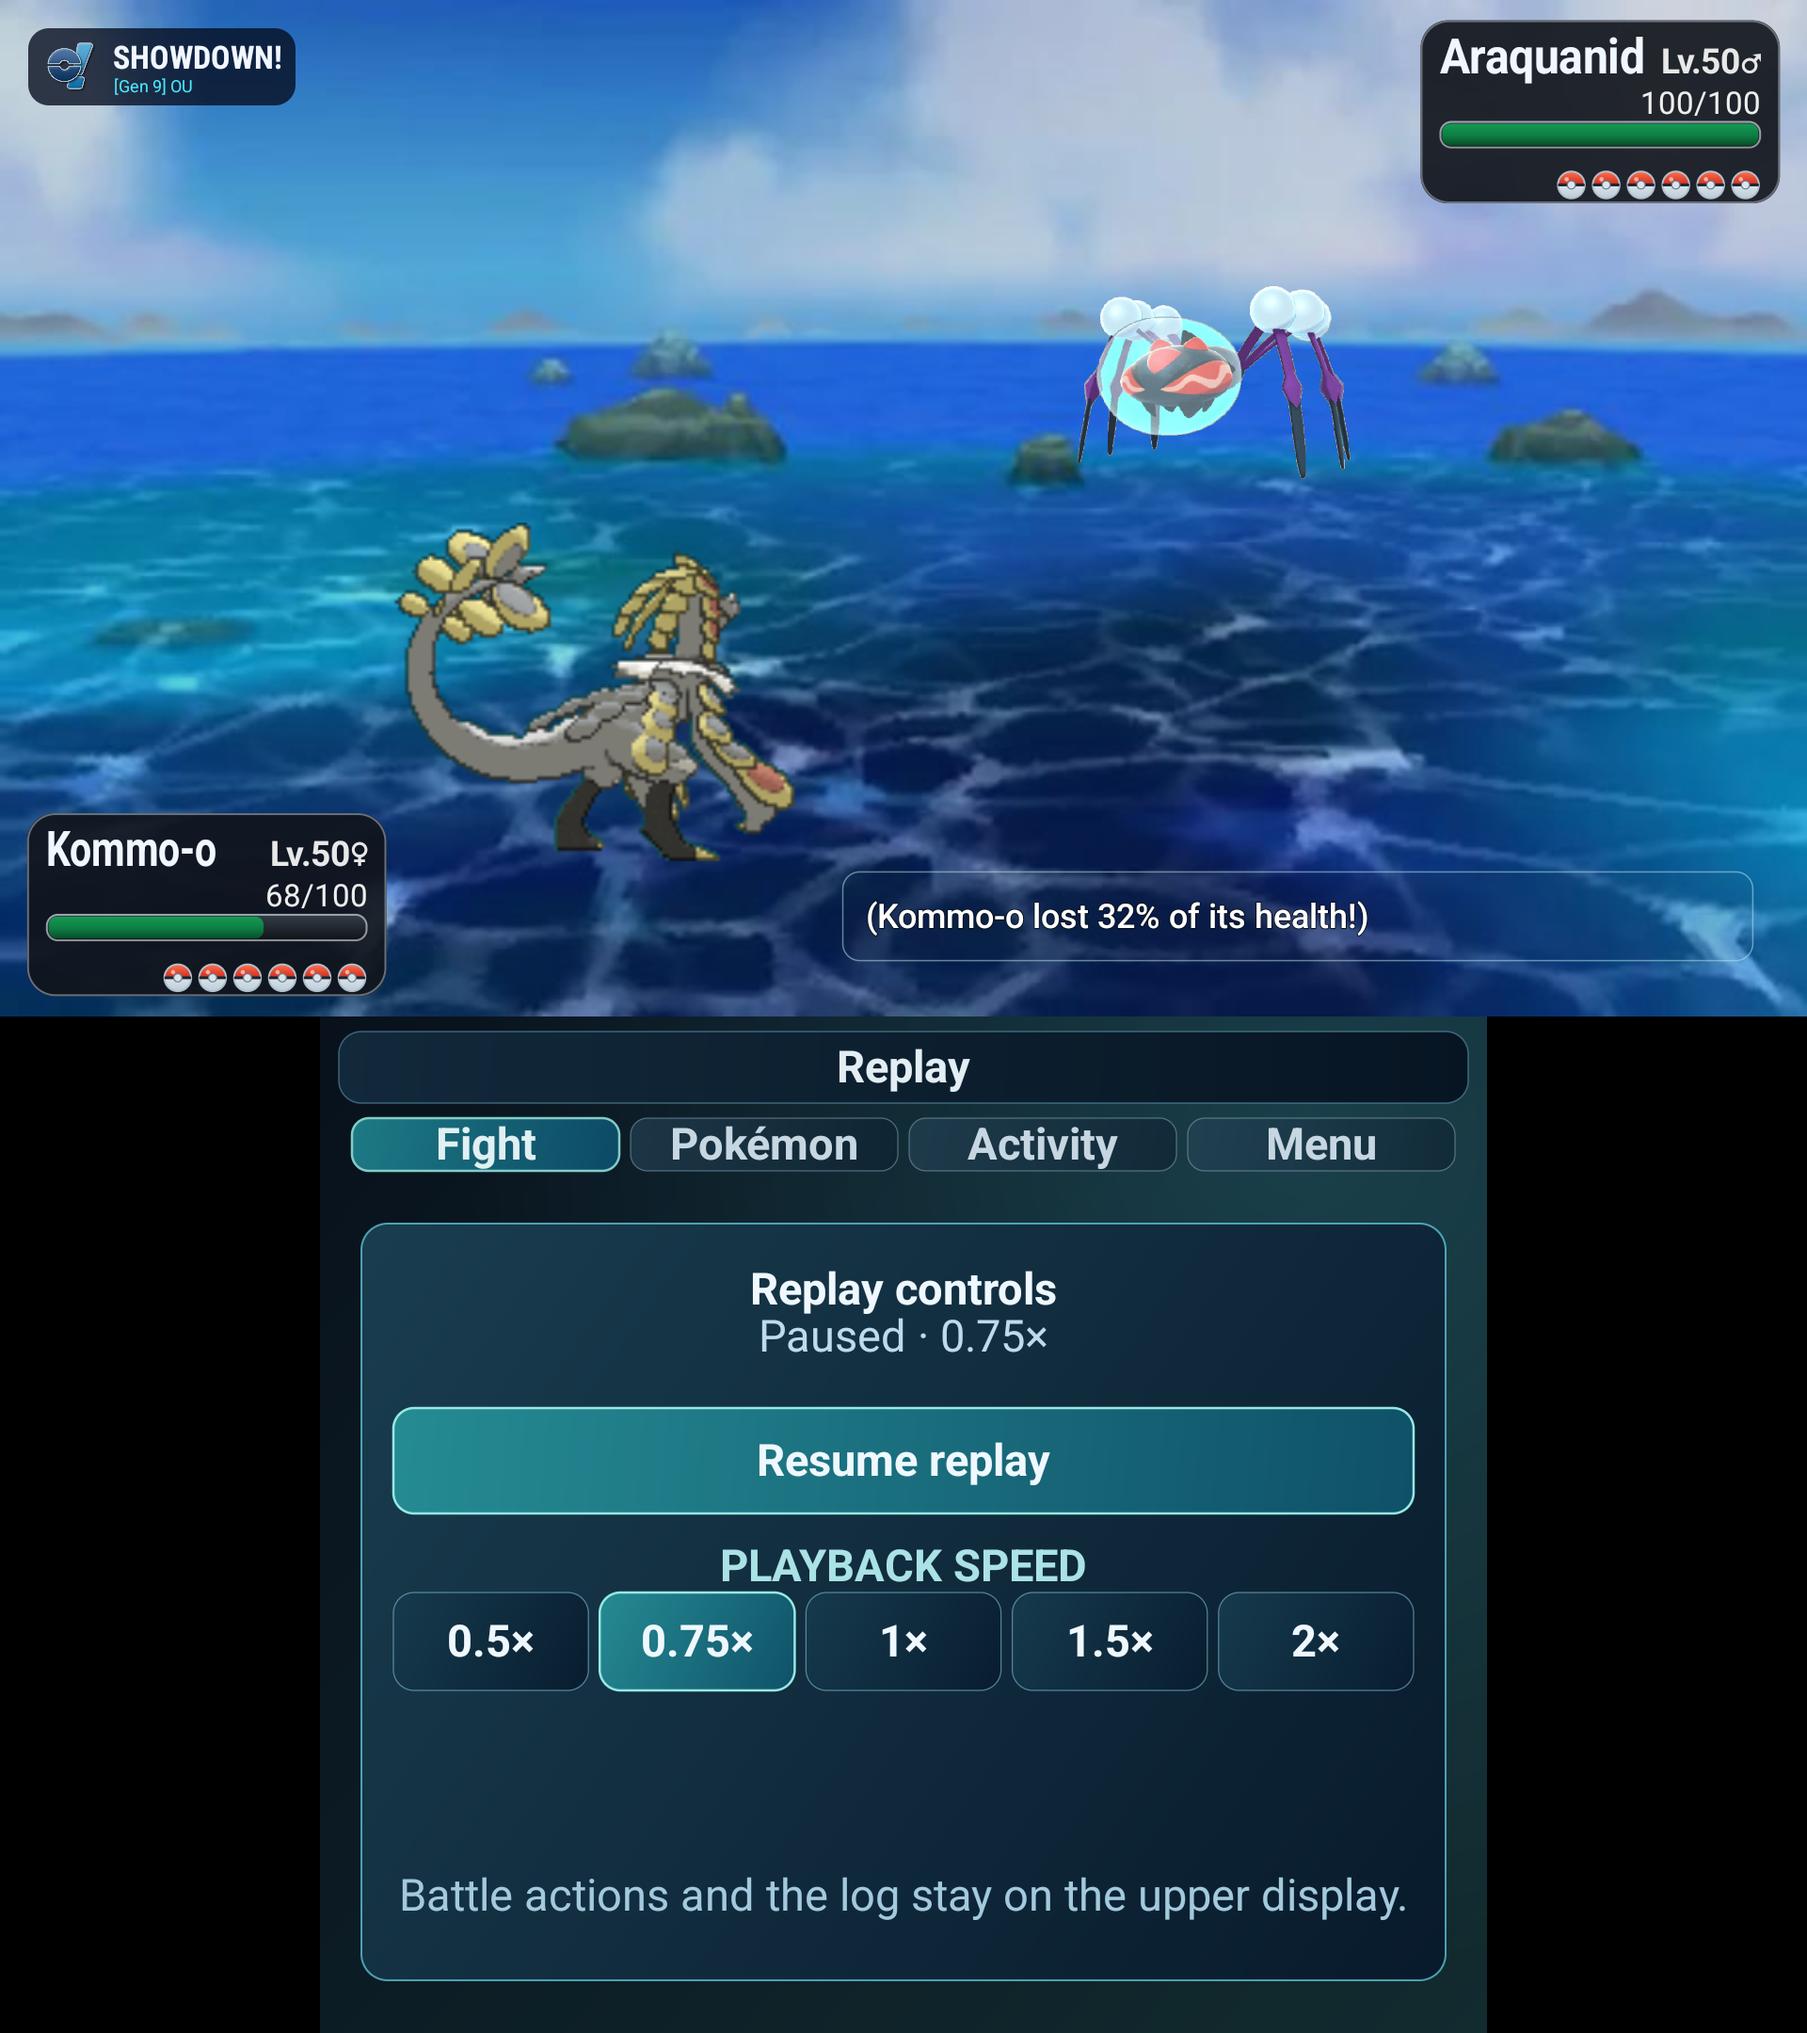
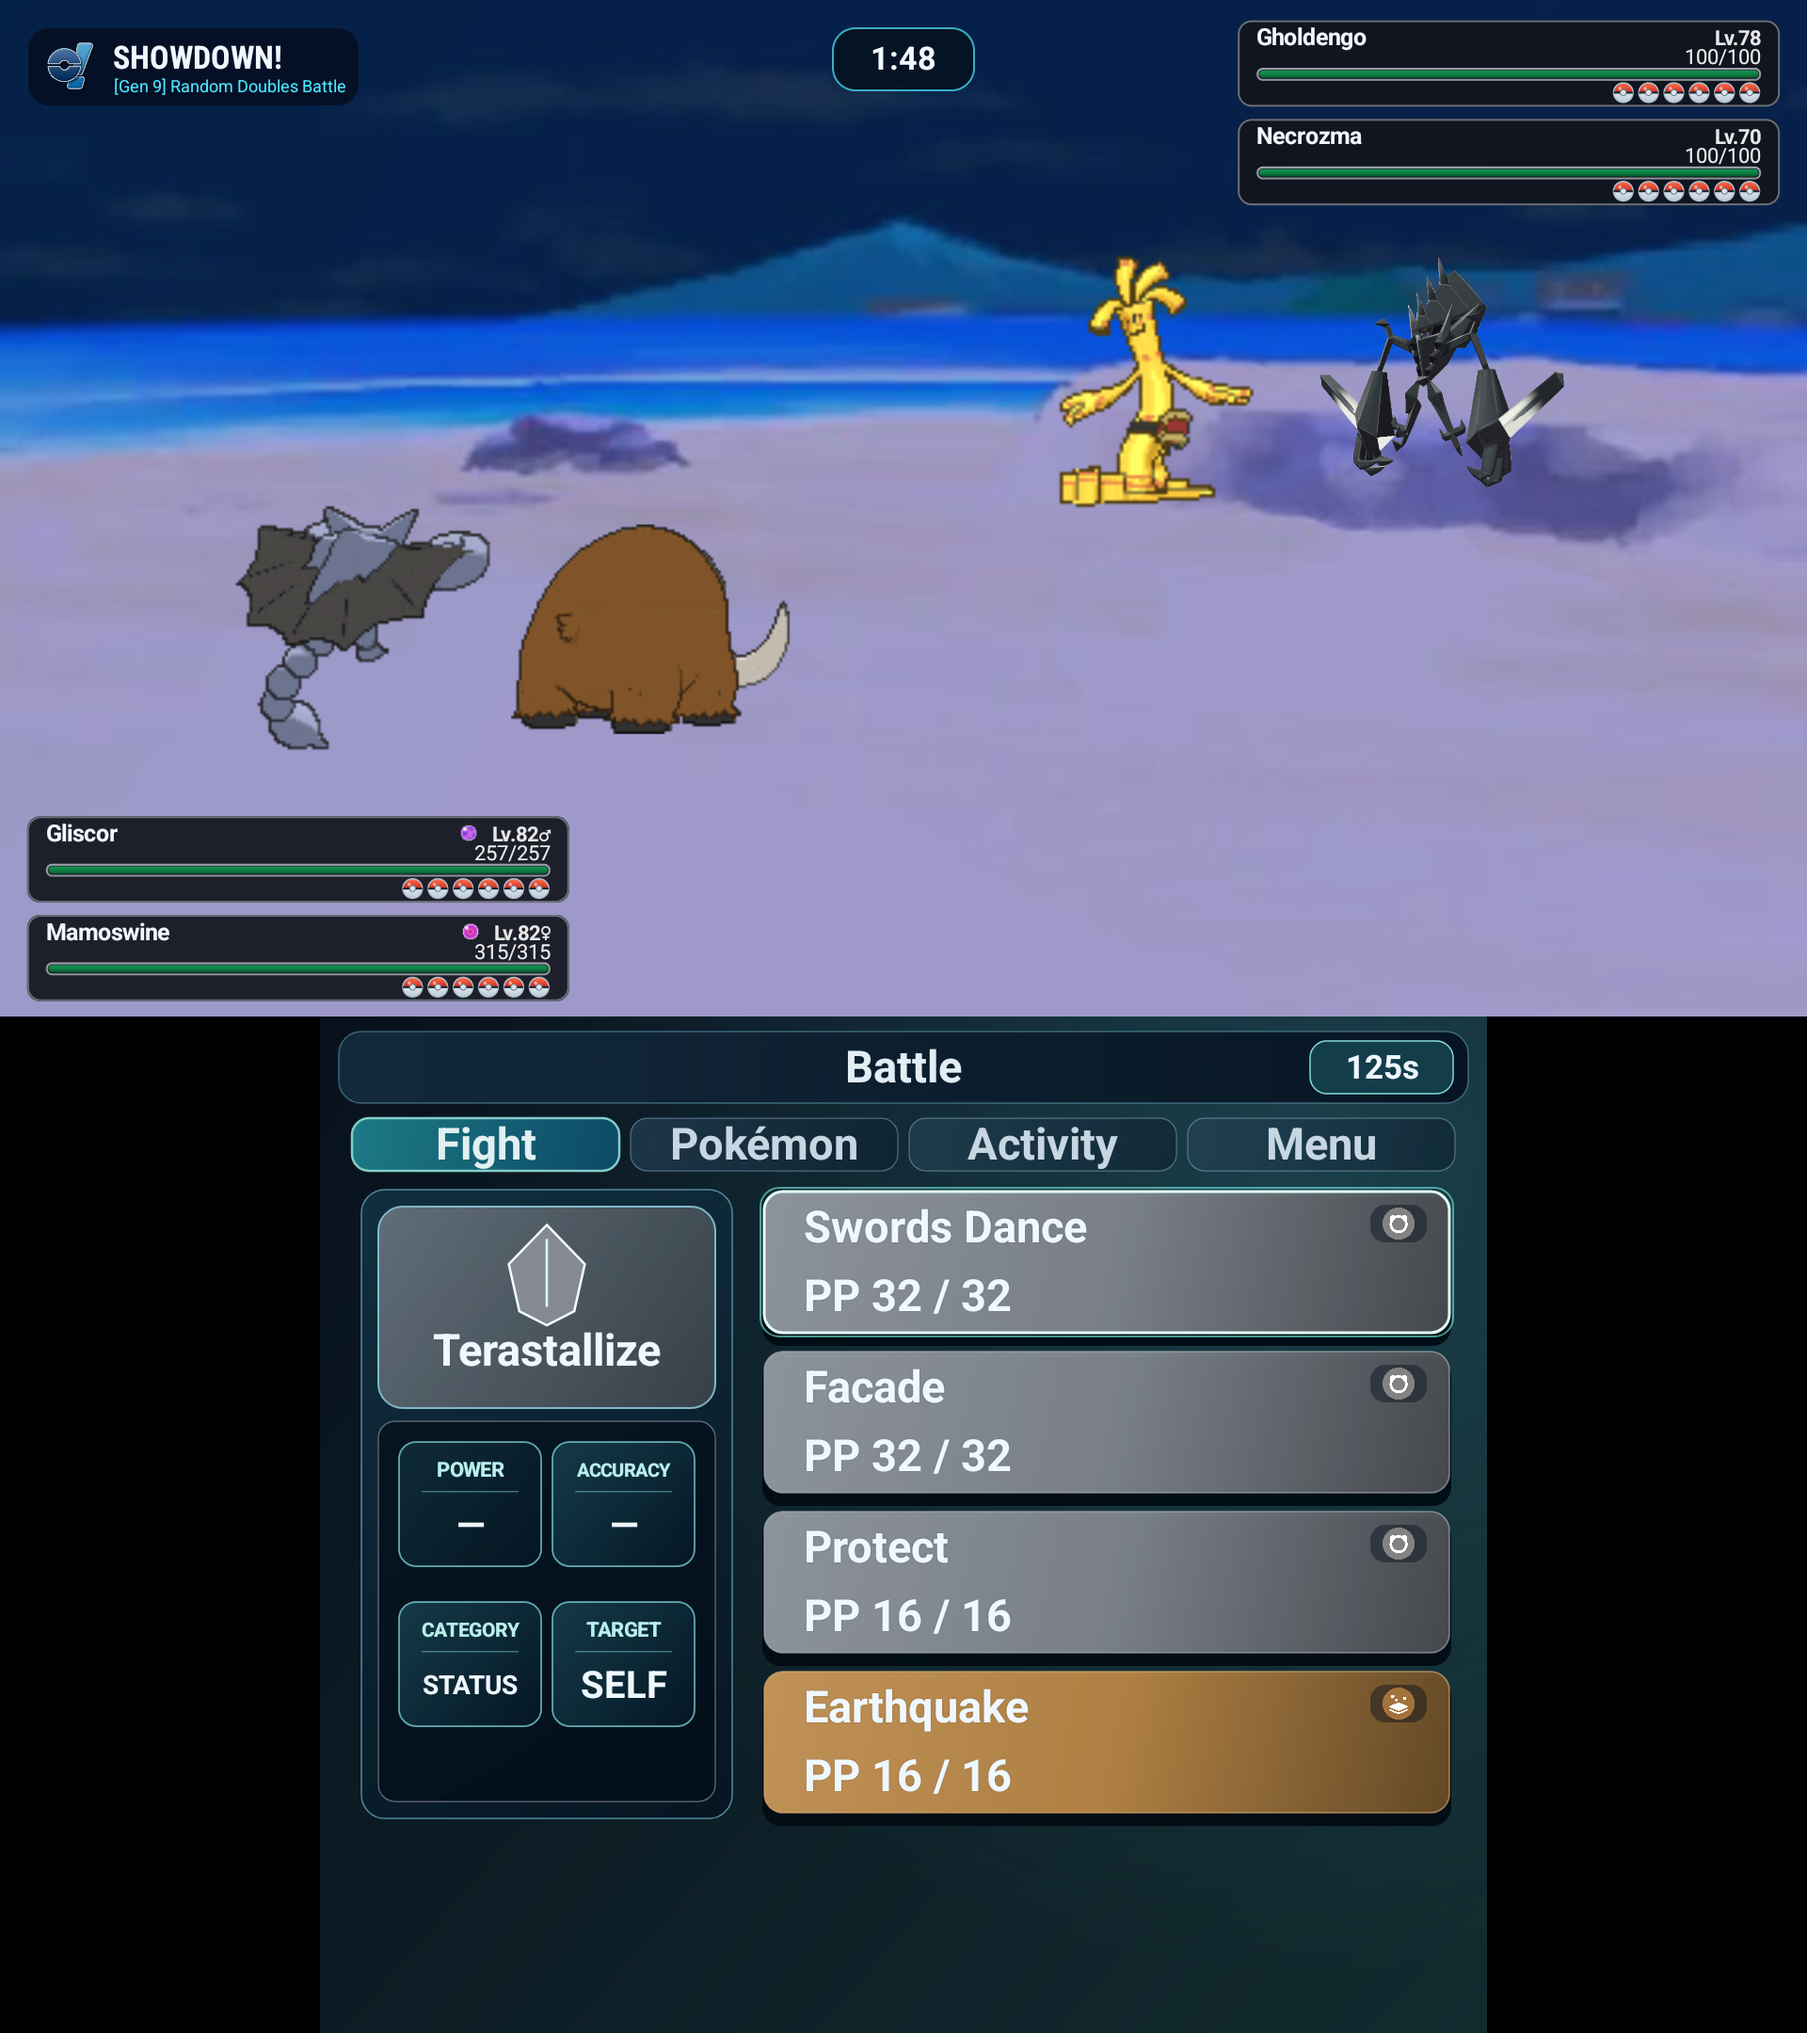
feat(battle): show the battle clock

diff --git a/app/src/main/kotlin/dev/adrian/showdown/BattleSceneView.kt b/app/src/main/kotlin/dev/adrian/showdown/BattleSceneView.kt
@@ -213,6 +213,7 @@ class BattleSceneView(
             )
         }
         drawHeader(canvas, width, scale)
+        drawBattleClock(canvas, width, scale)
         if ((inspectedPlayer == true && !session.hasActivePlayerCombatant()) ||
             (inspectedPlayer == false && !session.hasActiveOpponentCombatant())
         ) {
@@ -284,6 +285,7 @@ class BattleSceneView(
         ) {
             postInvalidateDelayed(RenderCadence.animatedFrameDelayMillis)
         }
+        if (session.battleClockSeconds() != null && !animationsPaused) postInvalidateDelayed(1_000L)
     }
 
     override fun onTouchEvent(event: MotionEvent): Boolean {
@@ -766,6 +768,36 @@ class BattleSceneView(
         paint.textSize = 18f * scale
         paint.color = CYAN
         canvas.drawText(displayedFormat, titleLeft + scale, padding + 68f * scale, paint)
+    }
+
+    private fun drawBattleClock(canvas: Canvas, width: Float, scale: Float) {
+        val seconds = session.battleClockSeconds() ?: return
+        val label = BattleClockPresentation.timeLabel(seconds)
+        val clockTextSize = readableTextSize(30f, scale, 15f)
+        paint.typeface = android.graphics.Typeface.create("sans-serif", android.graphics.Typeface.BOLD)
+        paint.textSize = clockTextSize
+        val pillHeight = 66f * scale
+        val pillWidth = maxOf(150f * scale, paint.measureText(label) + 72f * scale)
+        val centerX = width / 2f
+        val top = 30f * scale
+        val bounds = RectF(centerX - pillWidth / 2f, top, centerX + pillWidth / 2f, top + pillHeight)
+        val color = when (BattleClockPresentation.urgency(seconds)) {
+            BattleClockUrgency.NORMAL -> Color.rgb(62, 186, 211)
+            BattleClockUrgency.WARNING -> Color.rgb(244, 189, 61)
+            BattleClockUrgency.CRITICAL -> Color.rgb(245, 91, 86)
+        }
+        paint.style = Paint.Style.FILL
+        paint.color = Color.argb(218, 5, 17, 29)
+        canvas.drawRoundRect(bounds, 24f * scale, 24f * scale, paint)
+        paint.style = Paint.Style.STROKE
+        paint.strokeWidth = 2f * scale
+        paint.color = Color.argb(235, Color.red(color), Color.green(color), Color.blue(color))
+        canvas.drawRoundRect(bounds, 24f * scale, 24f * scale, paint)
+        paint.style = Paint.Style.FILL
+        paint.textAlign = Paint.Align.CENTER
+        paint.color = INK
+        canvas.drawText(label, centerX, top + 44f * scale, paint)
+        paint.textAlign = Paint.Align.LEFT
     }
 
     private fun drawInspectSheet(canvas: Canvas, width: Float, height: Float, scale: Float) {

diff --git a/app/src/test/kotlin/dev/adrian/showdown/BattleClockPresentationTest.kt b/app/src/test/kotlin/dev/adrian/showdown/BattleClockPresentationTest.kt
@@ -1,0 +1,20 @@
+package dev.adrian.showdown
+
+import org.junit.Assert.assertEquals
+import org.junit.Test
+
+class BattleClockPresentationTest {
+    @Test
+    fun formatsBattleTimeAsMinutesAndSeconds() {
+        assertEquals("0:00", BattleClockPresentation.timeLabel(0))
+        assertEquals("2:05", BattleClockPresentation.timeLabel(125))
+        assertEquals("0:00", BattleClockPresentation.timeLabel(-10))
+    }
+
+    @Test
+    fun escalatesClockUrgencyAsTimeRunsOut() {
+        assertEquals(BattleClockUrgency.NORMAL, BattleClockPresentation.urgency(31))
+        assertEquals(BattleClockUrgency.WARNING, BattleClockPresentation.urgency(30))
+        assertEquals(BattleClockUrgency.CRITICAL, BattleClockPresentation.urgency(10))
+    }
+}

diff --git a/app/src/main/kotlin/dev/adrian/showdown/BattleClockPresentation.kt b/app/src/main/kotlin/dev/adrian/showdown/BattleClockPresentation.kt
@@ -1,0 +1,22 @@
+package dev.adrian.showdown
+
+import java.util.Locale
+
+enum class BattleClockUrgency {
+    NORMAL,
+    WARNING,
+    CRITICAL
+}
+
+object BattleClockPresentation {
+    fun timeLabel(seconds: Int): String {
+        val safeSeconds = seconds.coerceAtLeast(0)
+        return String.format(Locale.ROOT, "%d:%02d", safeSeconds / 60, safeSeconds % 60)
+    }
+
+    fun urgency(seconds: Int): BattleClockUrgency = when {
+        seconds <= 10 -> BattleClockUrgency.CRITICAL
+        seconds <= 30 -> BattleClockUrgency.WARNING
+        else -> BattleClockUrgency.NORMAL
+    }
+}
